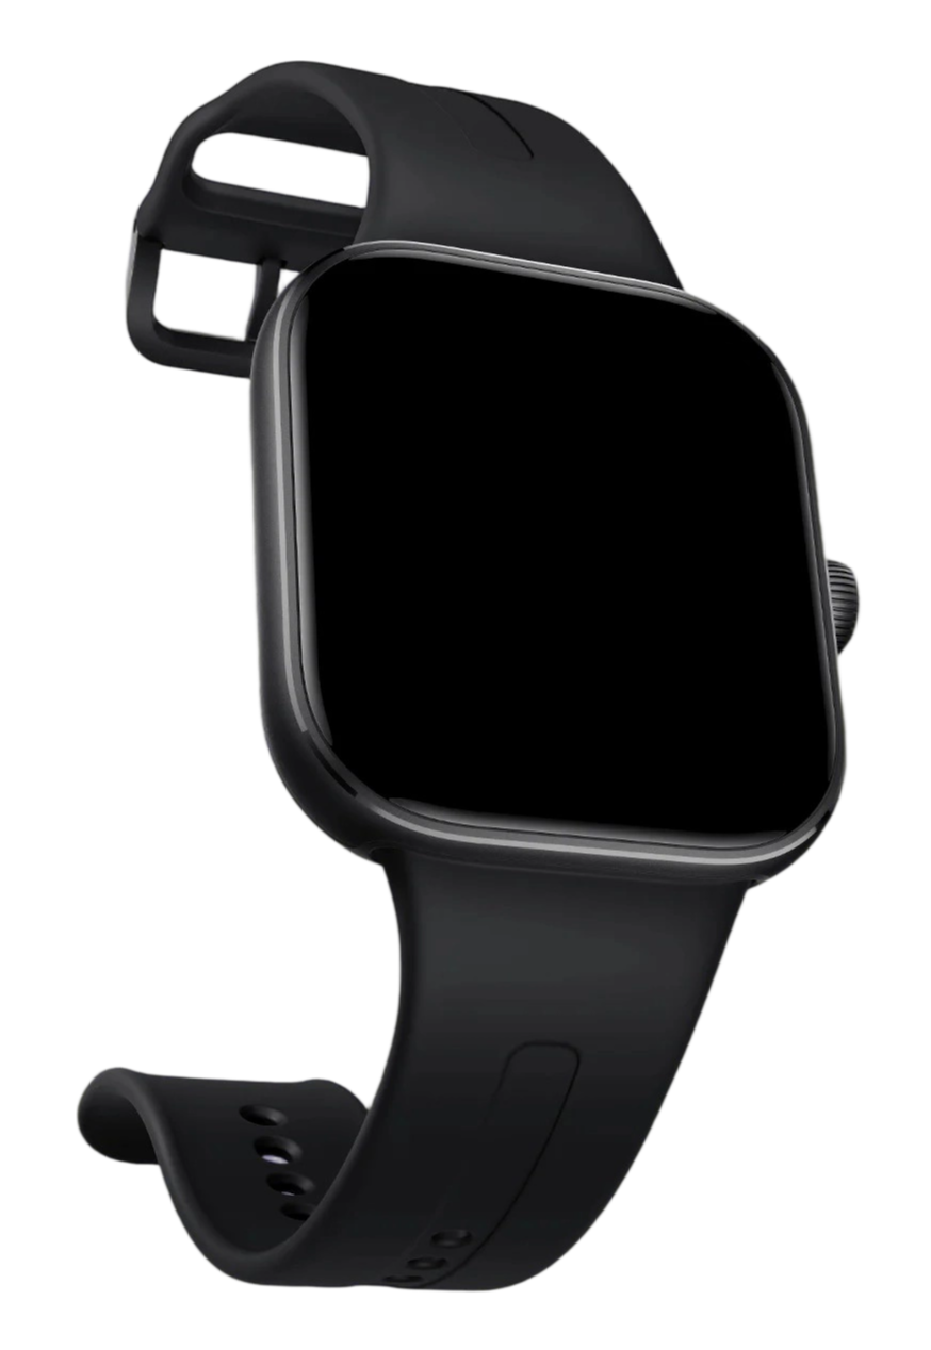
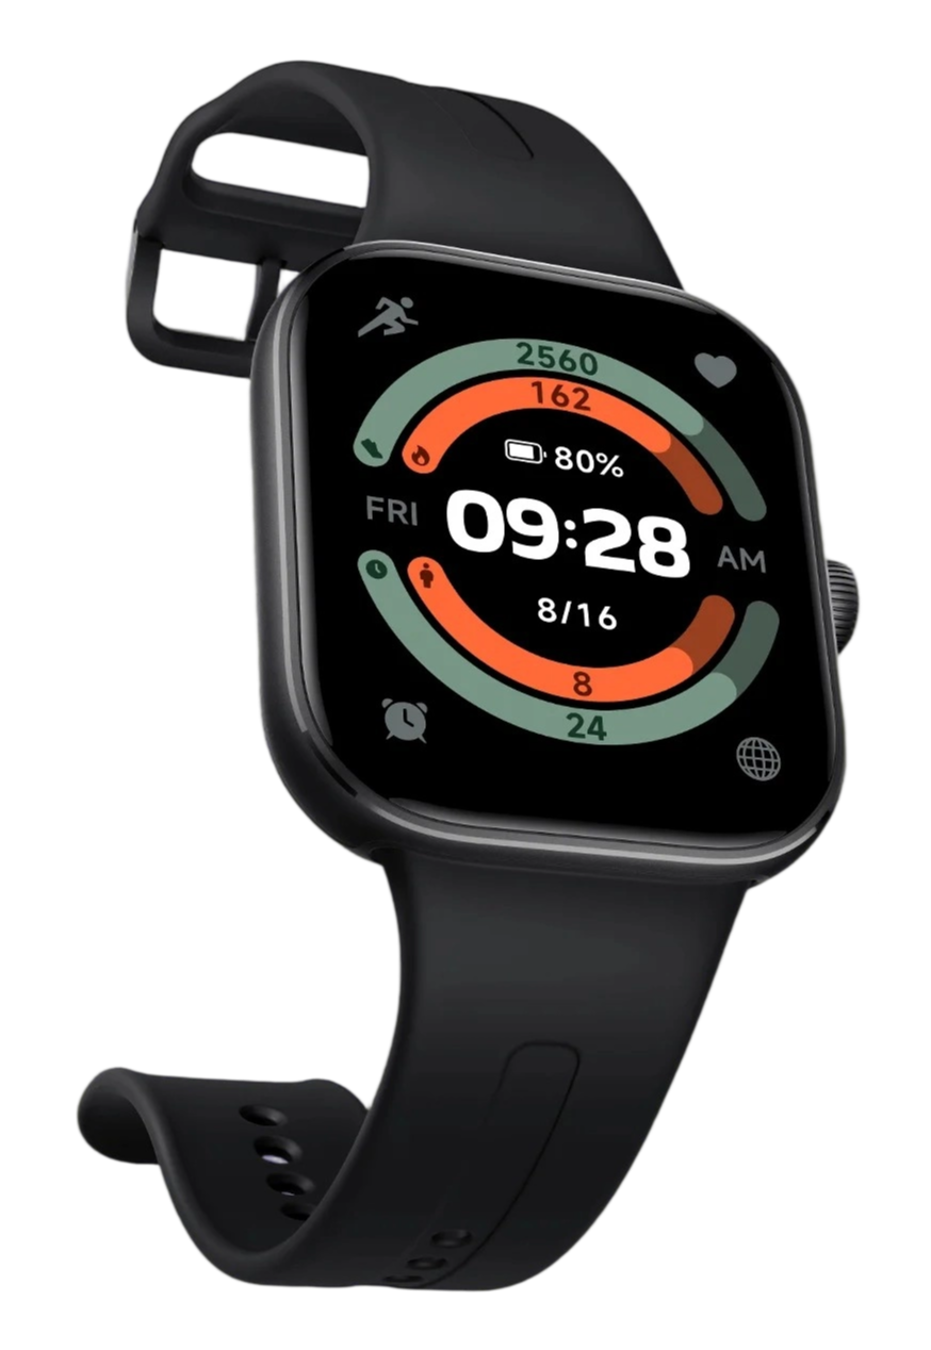
✨ 更新模板一和模板二的图片文件，调整边框半径及屏幕角坐标

Changed region(s): [[0.3738, 0.2178, 0.841, 0.5911]]

diff --git a/src/App.vue b/src/App.vue
@@ -400,7 +400,7 @@ const deviceModels: Record<string, DeviceModel> = {
         name: "模板一",
         imagePath: "/proto/r5-1.png",
         watchFaceType: "方形",
-        borderRadius: [95, 103, 103, 103],
+        borderRadius: [74, 83, 74, 82],
         highlightGradient:
           "linear-gradient(335deg, rgba(255,255,255,0.03) 0%, rgba(255,255,255,0.06) 50%, rgba(255,255,255,0.2) 100%)",
         screenSource: {
@@ -409,20 +409,20 @@ const deviceModels: Record<string, DeviceModel> = {
         },
         screenCorners: [
           {
-            x: 333,
-            y: 269,
+            x: 327,
+            y: 264,
           },
           {
             x: 758,
-            y: 342,
+            y: 339,
           },
           {
-            x: 809,
-            y: 810,
+            x: 813,
+            y: 819,
           },
           {
-            x: 355,
-            y: 764,
+            x: 351,
+            y: 773,
           },
         ],
       },
@@ -431,7 +431,7 @@ const deviceModels: Record<string, DeviceModel> = {
         name: "模板二",
         imagePath: "/proto/r5-2.png",
         watchFaceType: "方形",
-        borderRadius: [93, 103, 103, 103],
+        borderRadius: [82, 88, 88, 82],
         highlightGradient:
           "linear-gradient(290deg, rgba(255,255,255,0.04) 0%, rgba(255,255,255,0.08) 50%, rgba(255,255,255,0.3) 100%)",
         screenSource: {
@@ -440,20 +440,20 @@ const deviceModels: Record<string, DeviceModel> = {
         },
         screenCorners: [
           {
-            x: 687,
-            y: 302,
+            x: 664,
+            y: 289,
           },
           {
-            x: 1106,
-            y: 323,
+            x: 1116,
+            y: 308,
           },
           {
-            x: 1096,
-            y: 1007,
+            x: 1116,
+            y: 1014,
           },
           {
-            x: 681,
-            y: 1020,
+            x: 664,
+            y: 1029,
           },
         ],
       },
